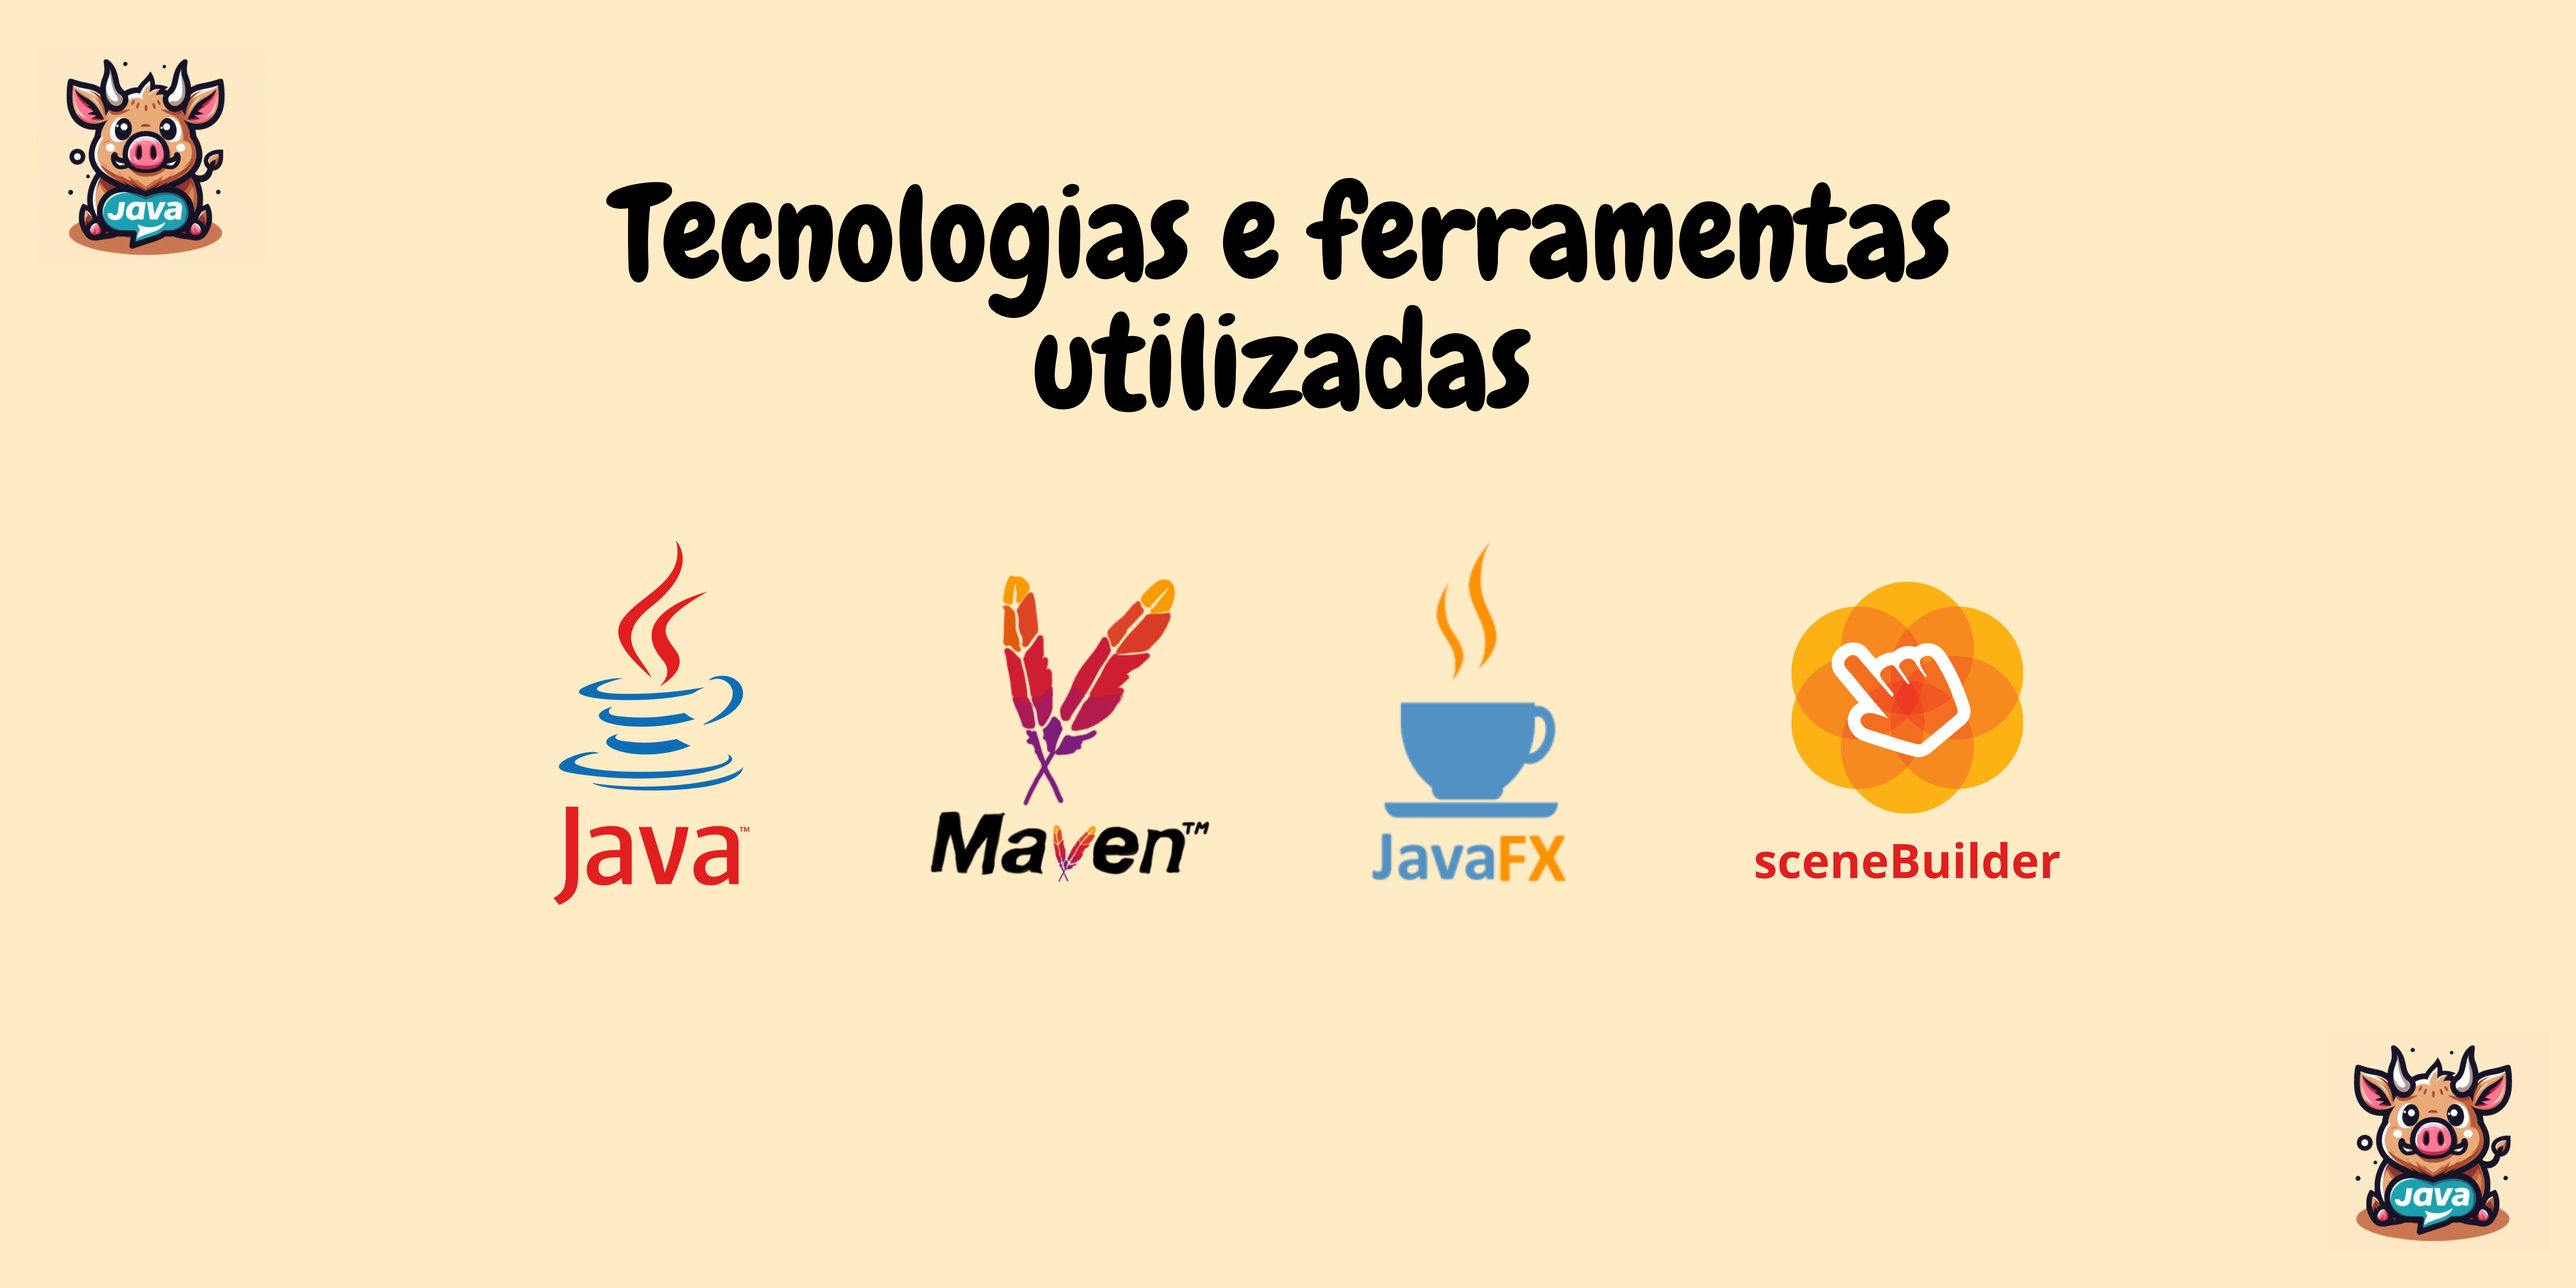
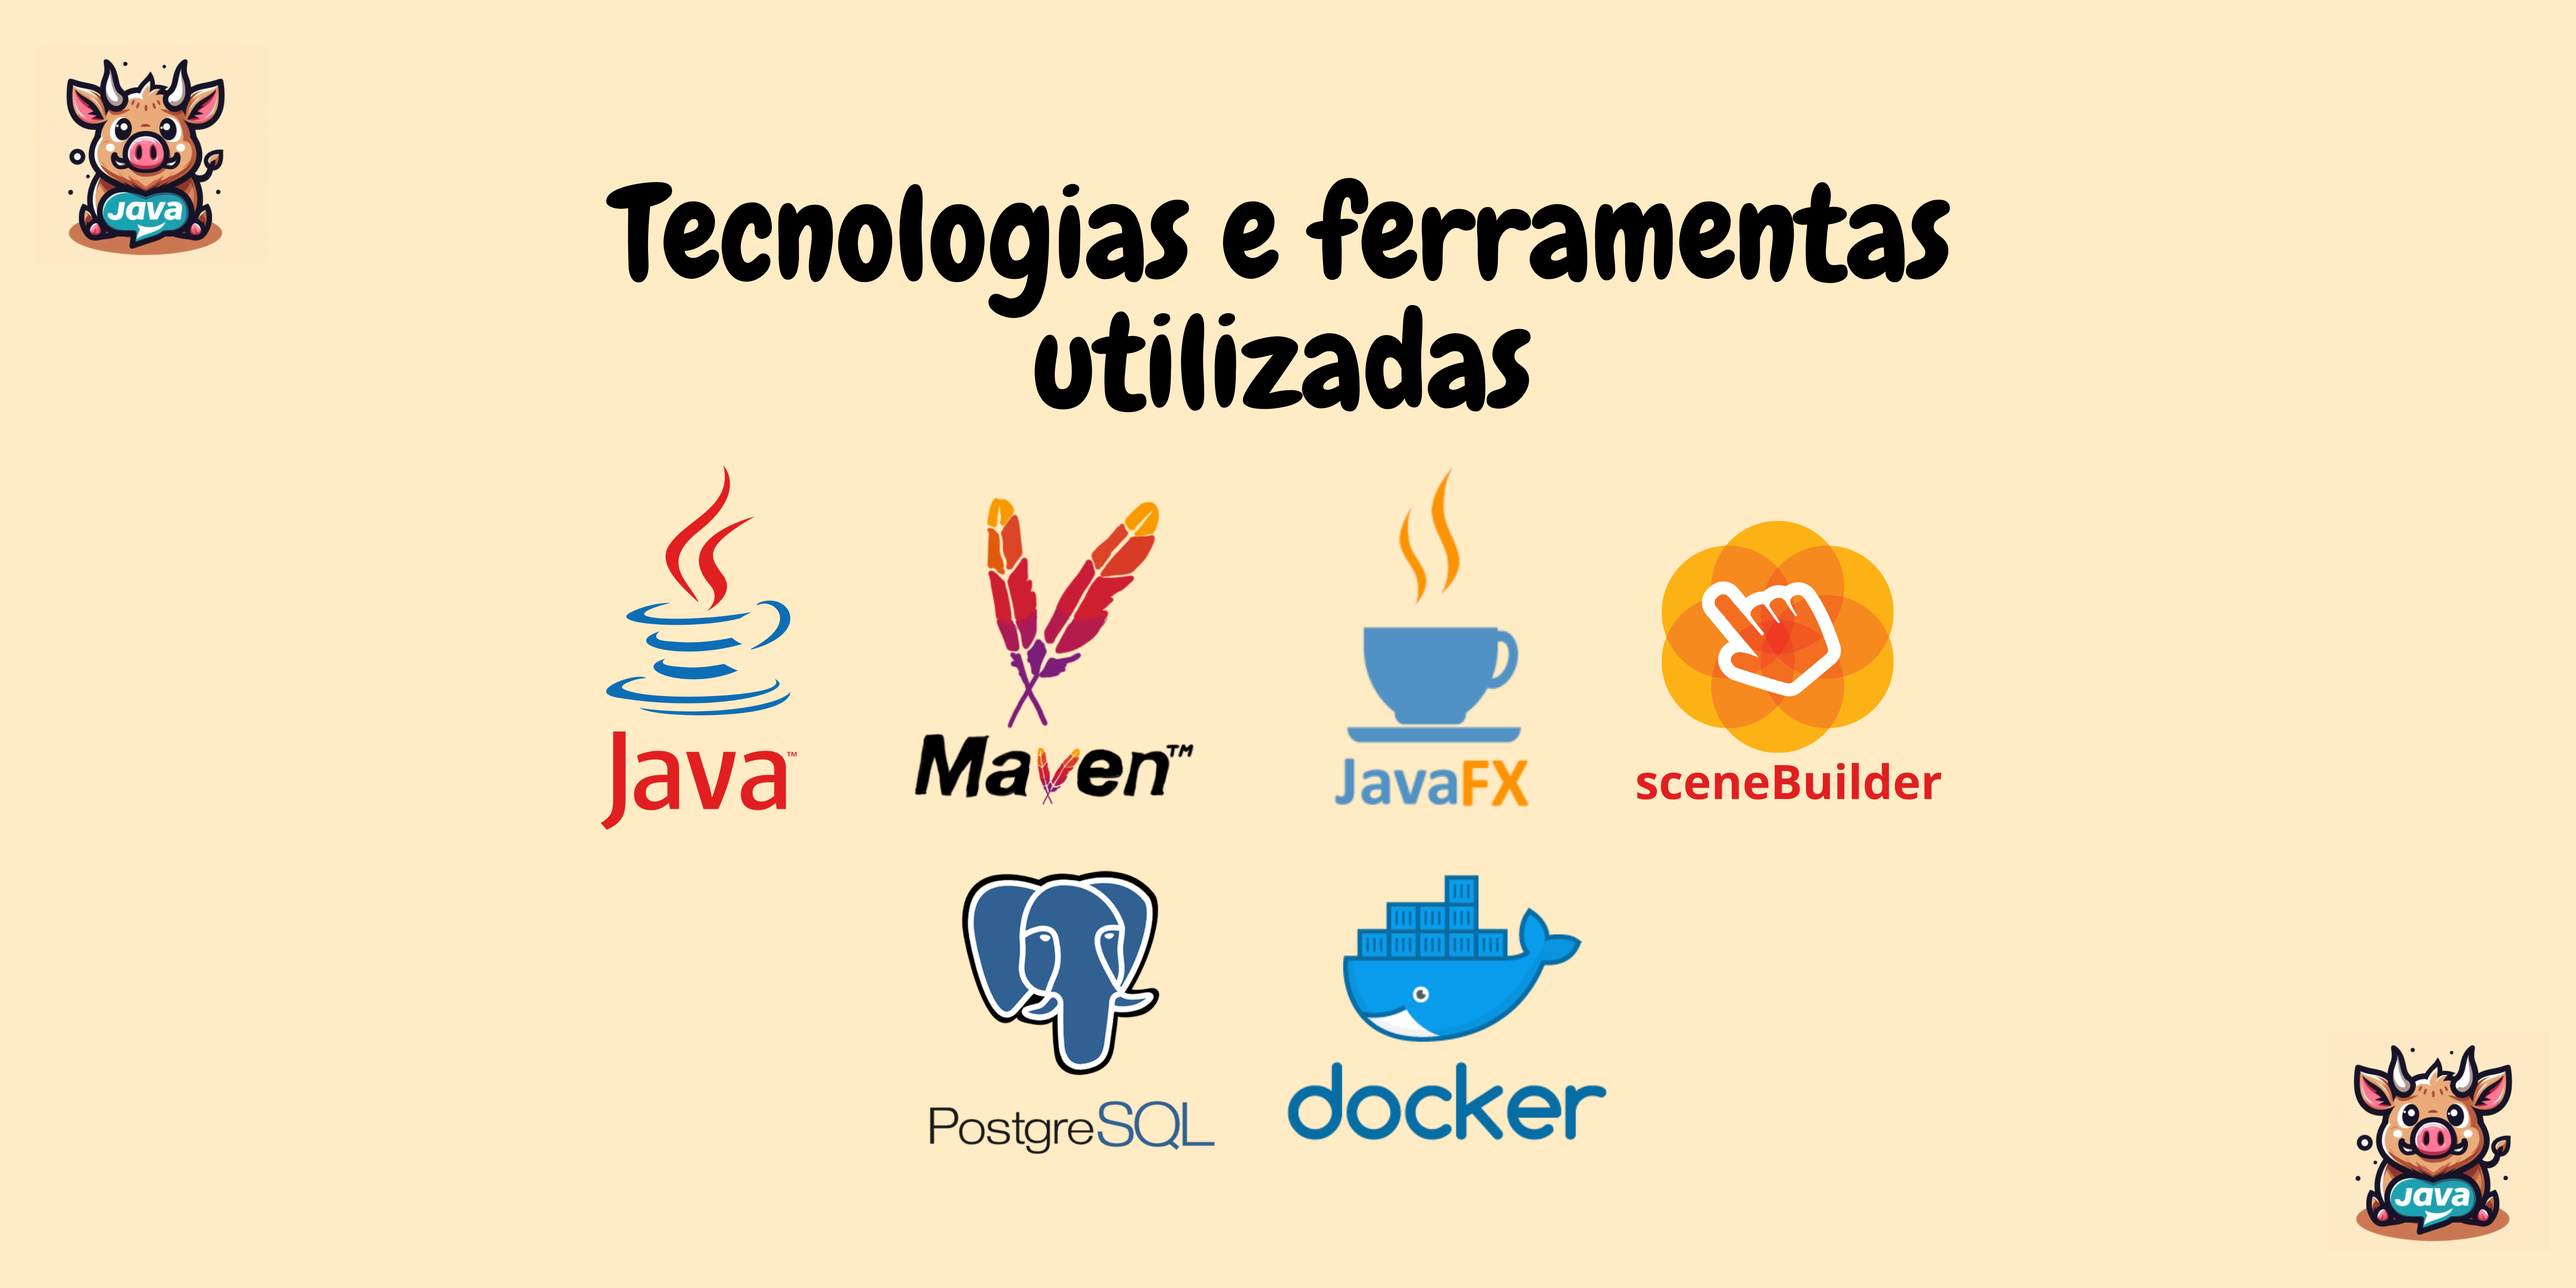
54 - Adiciona Burndown e ferramentas utilizadas readme
* adiciona burndown nas docs do projeto

* atualiza ferramentas e tecnologias

diff --git a/documentação/burndown.md b/documentação/burndown.md
@@ -1,0 +1,6 @@
+# Burndown
+
+O burndown é uma ferramenta fundamental no gerenciamento ágil de projetos, especialmente no framework Scrum. Ele é uma representação visual do progresso do trabalho ao longo do tempo, mostrando quanto trabalho resta para ser concluído em relação ao tempo disponível.
+
+## Burndown - Sprint dois (15/04 - 05/05)
+![alt text](image.png)
